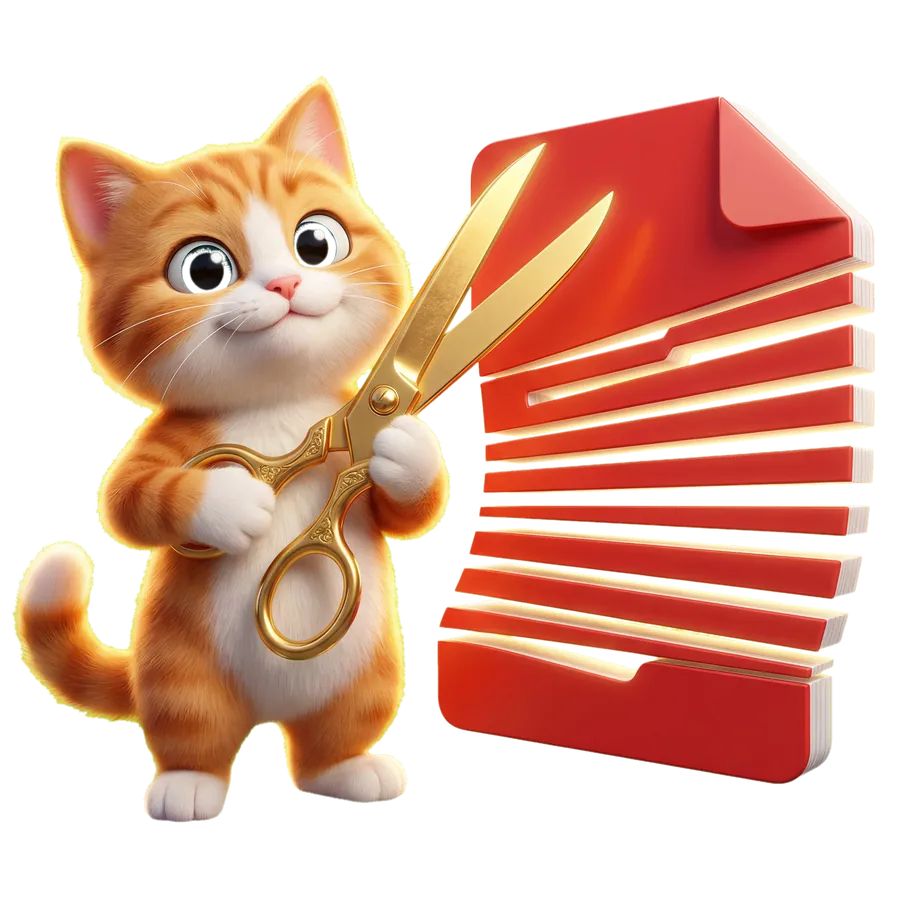
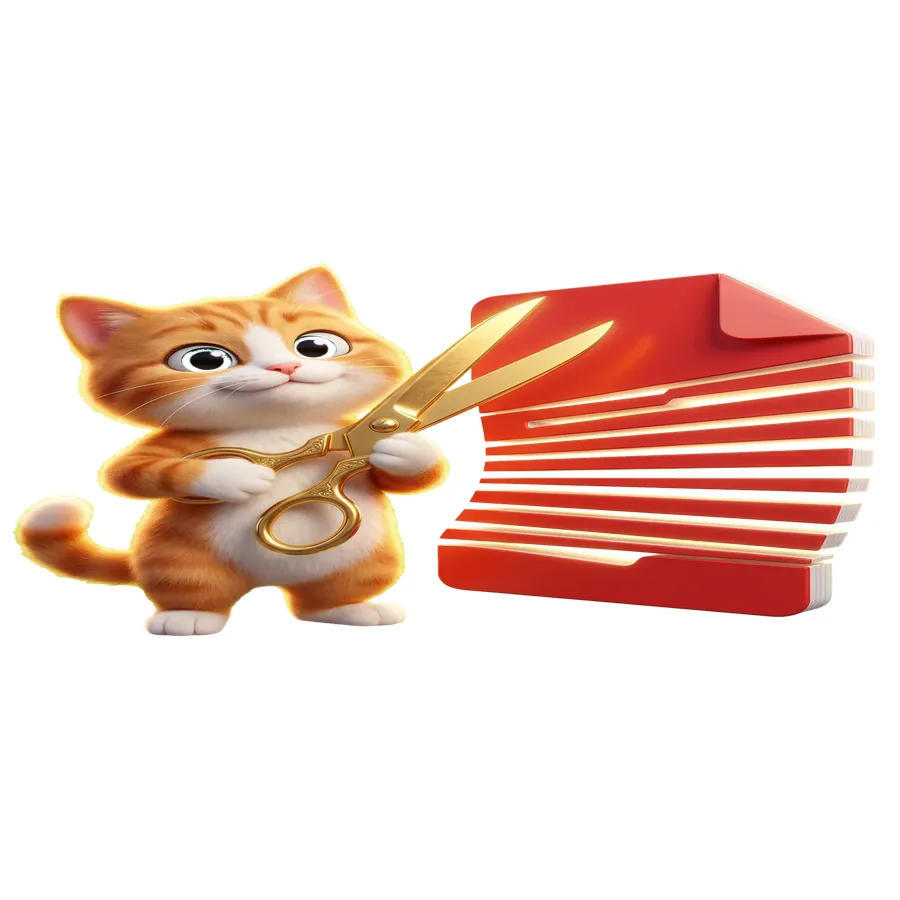
pdf-ayir: nasıl-yapılır image height %50 kısalt (source)
- HTML max-w-[110px] → max-w-[220px] geri alındı
- Source image content height 900 → 450 (width 900 aynı)
- Canvas 900x900 kare, content merkezde, üst-alt beyaz padding
- Kedi orantısı korundu (non-uniform scale yok, content küçük ama orantılı)

Kullanıcı isteği: 'kedinin yüksekliğini %50 küçült'.

diff --git a/site/pdf-ayir.html b/site/pdf-ayir.html
@@ -526,7 +526,7 @@
 <div class="bg-white rounded-2xl shadow p-6 md:p-10">
 <div class="grid md:grid-cols-3 gap-8 items-center">
 <div class="md:col-span-1 flex justify-center">
-<img alt="Turuncu tabby kedi büyük altın makasla kırmızı PDF belgesini üç parçaya bölüyor — PDF Ayır aracının maskotu, 3D illüstrasyon" class="w-20 md:w-full max-w-[110px]" decoding="async" height="900" loading="lazy" src="/images/pdf-ayir-nasil-yapilir.webp?v=5eaf4b33" width="900"/>
+<img alt="Turuncu tabby kedi büyük altın makasla kırmızı PDF belgesini üç parçaya bölüyor — PDF Ayır aracının maskotu, 3D illüstrasyon" class="w-40 md:w-full max-w-[220px]" decoding="async" height="900" loading="lazy" src="/images/pdf-ayir-nasil-yapilir.webp?v=d9bc53b7" width="900"/>
 </div>
 <div class="md:col-span-2">
 <h2 class="text-2xl md:text-3xl font-bold text-gray-900 mb-4">PDF dosyası nasıl ayrılır?</h2>
